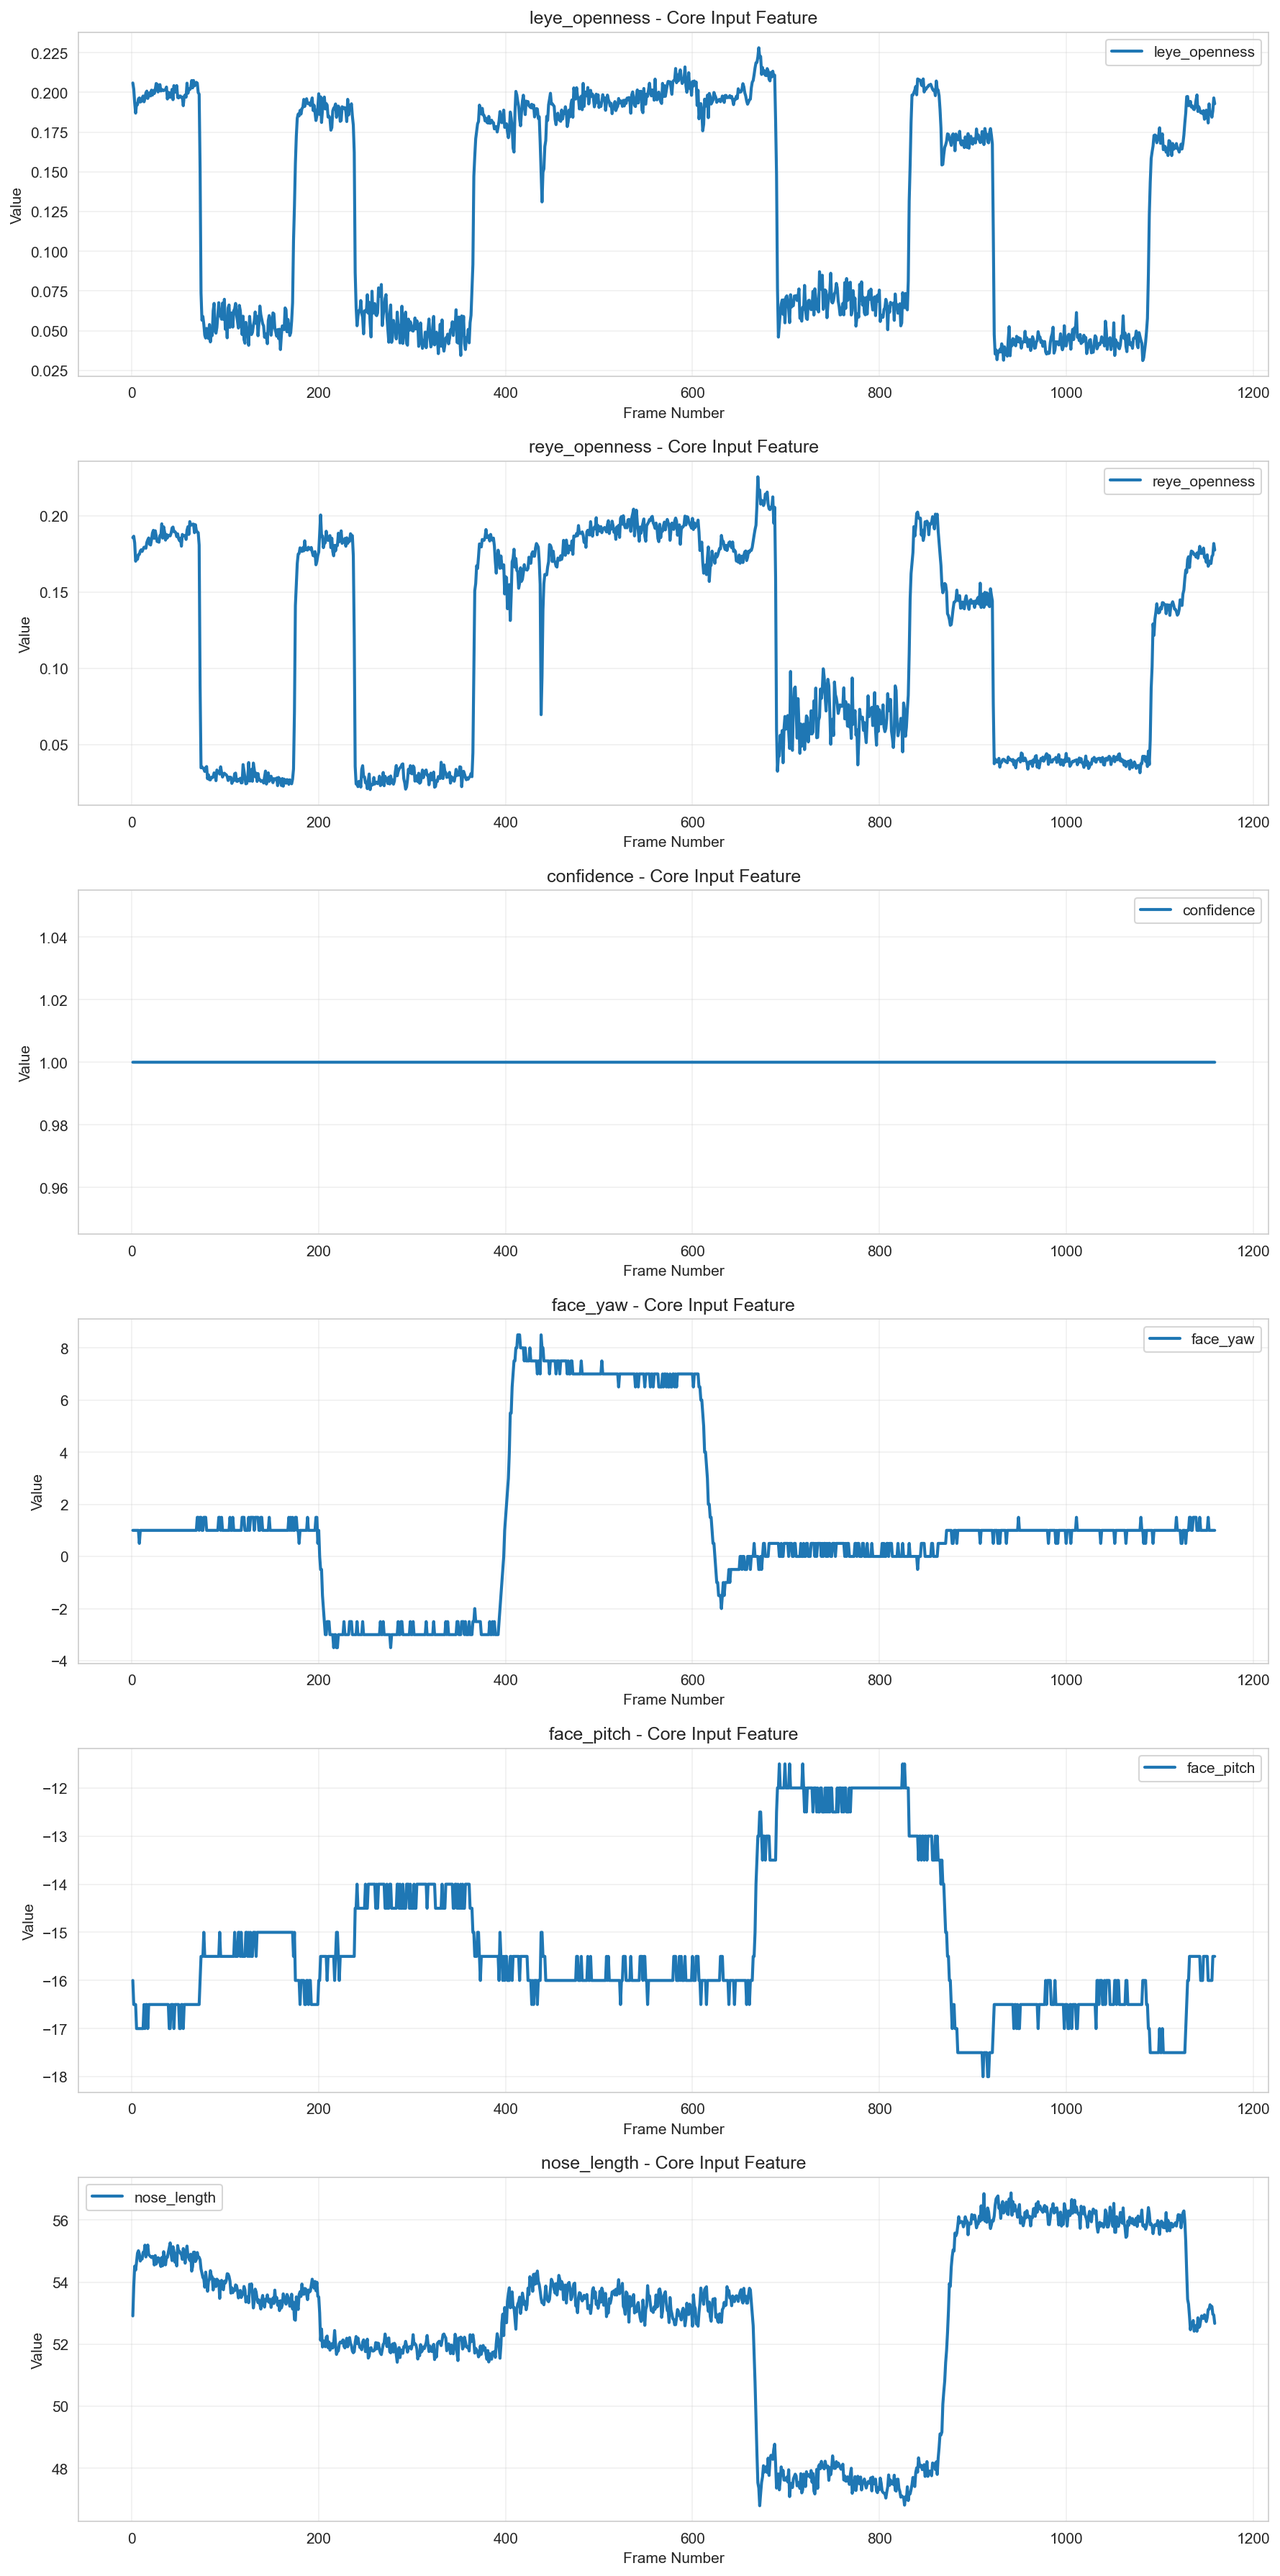
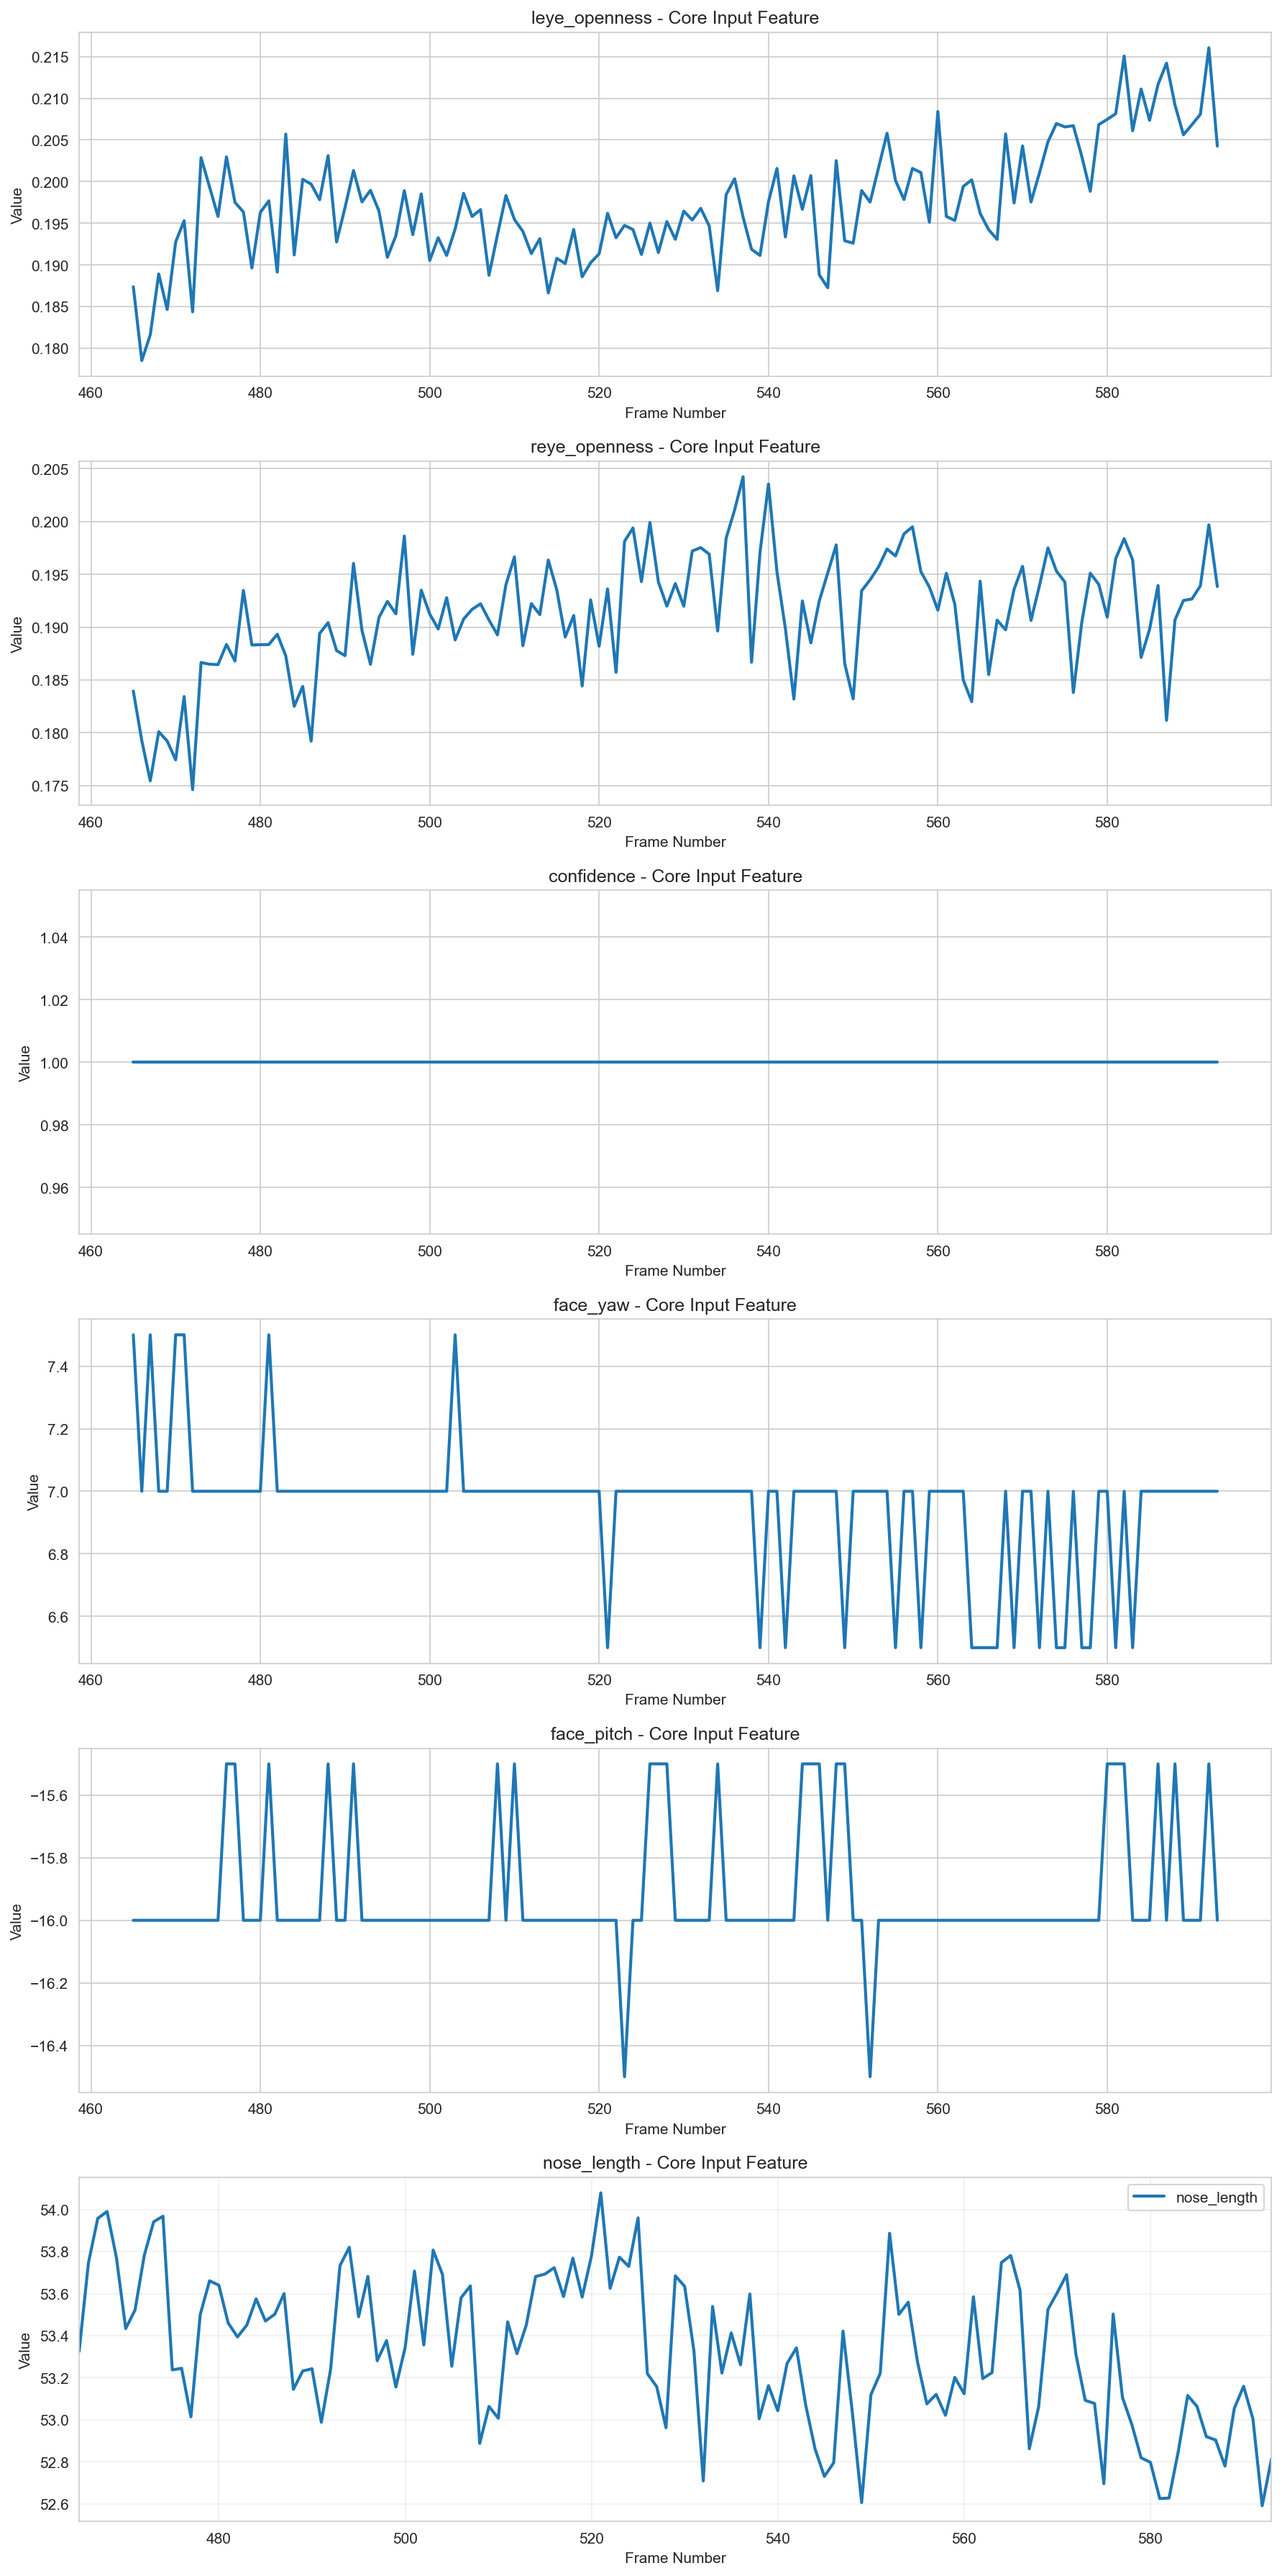
ログファイルにデータ分析の開始、エラー、生成されたレポートの詳細を追加。レポート内容を改善し、データ品質に関する推奨事項を更新。分析結果のJSONファイルの更新と、レポート生成機能の強化を実施。ターゲットフレーム範囲の抽出機能を追加し、可視化の精度を向上させるための設定を実装。

diff --git a/src/ai_analysis_engine/agents/reporter_agent.py b/src/ai_analysis_engine/agents/reporter_agent.py
@@ -434,14 +434,29 @@ class ReporterAgent:
 
             # Extract target interval from dataset if available
             target_interval_code = ""
+            start_frame = None
+            end_frame = None
+
+            # First, try to get from consistency_check
             if dataset and hasattr(dataset, 'consistency_check') and dataset.consistency_check:
                 cc = dataset.consistency_check
                 if isinstance(cc, dict) and 'target_interval' in cc and cc['target_interval']:
                     interval = cc['target_interval']
                     start_frame = interval.get('start')
                     end_frame = interval.get('end')
-                    if start_frame is not None and end_frame is not None:
-                        target_interval_code = f"""
+
+            # If not found in consistency_check, extract from expected_result directly
+            if start_frame is None and dataset and hasattr(dataset, 'expected_result'):
+                import re
+                expected = dataset.expected_result
+                # Extract frame range from expected result
+                frame_match = re.search(r'フレーム(?:区間)?\s*(\d+)\s*[-〜~]\s*(\d+)', expected)
+                if frame_match:
+                    start_frame = int(frame_match.group(1))
+                    end_frame = int(frame_match.group(2))
+
+            if start_frame is not None and end_frame is not None:
+                target_interval_code = f"""
 # Filter data to target interval
 if 'frame' in df.columns:
     df = df[(df['frame'] >= {start_frame}) & (df['frame'] <= {end_frame})]
@@ -462,6 +477,10 @@ df = pd.read_csv(r'{data_path}')
 
 # Filter to target interval if available
 {target_interval_code}
+
+# Define frame range variables for axis limits
+start_frame = {start_frame if start_frame is not None else 'None'}
+end_frame = {end_frame if end_frame is not None else 'None'}
 
 # Thresholds configuration
 {thresholds_code}
@@ -503,6 +522,18 @@ for i, col in enumerate(plot_columns):
     axes[i].set_title(f'{{col}} - Algorithm Output')
     axes[i].set_xlabel(x_label)
     axes[i].set_ylabel('Value')
+
+        # Set x-axis limits to the target interval if available
+    if start_frame != 'None' and end_frame != 'None':
+        if 'frame_num' in df.columns:
+            x_min = max(df['frame_num'].min(), int(start_frame))
+            x_max = min(df['frame_num'].max(), int(end_frame))
+            axes[i].set_xlim(x_min, x_max)
+        elif 'frame' in df.columns:
+            x_min = max(df['frame'].min(), int(start_frame))
+            x_max = min(df['frame'].max(), int(end_frame))
+            axes[i].set_xlim(x_min, x_max)
+
     axes[i].legend()
     axes[i].grid(True, alpha=0.3)
 
@@ -542,14 +573,29 @@ plt.close()
 
             # Extract target interval from dataset if available
             target_interval_code = ""
+            start_frame = None
+            end_frame = None
+
+            # First, try to get from consistency_check
             if dataset and hasattr(dataset, 'consistency_check') and dataset.consistency_check:
                 cc = dataset.consistency_check
                 if isinstance(cc, dict) and 'target_interval' in cc and cc['target_interval']:
                     interval = cc['target_interval']
                     start_frame = interval.get('start')
                     end_frame = interval.get('end')
-                    if start_frame is not None and end_frame is not None:
-                        target_interval_code = f"""
+
+            # If not found in consistency_check, extract from expected_result directly
+            if start_frame is None and dataset and hasattr(dataset, 'expected_result'):
+                import re
+                expected = dataset.expected_result
+                # Extract frame range from expected result
+                frame_match = re.search(r'フレーム(?:区間)?\s*(\d+)\s*[-〜~]\s*(\d+)', expected)
+                if frame_match:
+                    start_frame = int(frame_match.group(1))
+                    end_frame = int(frame_match.group(2))
+
+            if start_frame is not None and end_frame is not None:
+                target_interval_code = f"""
 # Filter data to target interval
 if 'frame' in df.columns:
     df = df[(df['frame'] >= {start_frame}) & (df['frame'] <= {end_frame})]
@@ -570,6 +616,10 @@ df = pd.read_csv(r'{data_path}')
 
 # Filter to target interval if available
 {target_interval_code}
+
+# Define frame range variables for axis limits
+start_frame = {start_frame if start_frame is not None else 'None'}
+end_frame = {end_frame if end_frame is not None else 'None'}
 
 # Input columns and thresholds configuration
 input_cols = {input_cols_str}
@@ -659,6 +709,18 @@ else:
         axes[i].set_title(f'{{col}} - Core Input Feature')
         axes[i].set_xlabel(x_label)
         axes[i].set_ylabel('Value')
+
+        # Set x-axis limits to the target interval if available
+    if start_frame != 'None' and end_frame != 'None':
+        if 'frame_num' in df.columns:
+            x_min = max(df['frame_num'].min(), int(start_frame))
+            x_max = min(df['frame_num'].max(), int(end_frame))
+            axes[i].set_xlim(x_min, x_max)
+        elif 'frame' in df.columns:
+            x_min = max(df['frame'].min(), int(start_frame))
+            x_max = min(df['frame'].max(), int(end_frame))
+            axes[i].set_xlim(x_min, x_max)
+
         axes[i].legend()
         axes[i].grid(True, alpha=0.3)
 

diff --git a/output/results/reports/test_dataset_002_report.md b/output/results/reports/test_dataset_002_report.md
@@ -2,11 +2,11 @@
 
 ## 概要
 
-- 結論: データ品質問題により、期待される「連続閉眼あり」の検知が不十分である可能性があります。
+- 結論: データ品質問題により、連続閉眼の検知が不十分である可能性があります。特に、欠損値が存在するため、信頼性が低下しています。
 - 解析対象動画: test_dataset_002
 - フレーム区間: 465-593
 - 期待値: フレーム区間465-593の間に「連続閉眼あり」が存在すること
-- 検知結果: アルゴリズム出力では連続閉眼状態が検知されず、非連続閉眼状態が多く報告されました。
+- 検知結果: 連続閉眼状態の検知が不完全であり、期待値に対する出力が一致しない結果が得られました。
 
 ## 確認結果
 
@@ -16,21 +16,23 @@
 ![コア出力結果のグラフ](./plots/test_dataset_002/core_output_plot.png)
 コア出力結果
 
-- 入出力の確認結果: アルゴリズム出力データは1159行で、期待される連続閉眼状態が検知されていないことが確認されました。コア出力データには1159行があり、信頼度が0.70のデータが存在しましたが、欠損値が含まれているため、正確な判定が行えませんでした。
-
+- 入出力の確認結果: アルゴリズム出力では、連続閉眼状態が検知されていないフレームがあり、期待値との不一致が見られました。具体的には、アルゴリズム出力の中で連続閉眼状態が確認されたフレームは期待値に対して不足していました。
+  
 - 考えられる原因:
-  - データ品質問題: アルゴリズム出力に欠損値が存在し、信頼度が低いため、正確な検知が行われていない。
-  - 顔検出信頼度が閾値を下回るフレームが多く、検知結果に影響を与えている可能性がある。
+  - データ品質問題: アルゴリズム出力データに欠損値が存在し、信頼度が0.70であるため、検知結果に影響を与えています。
+  - 顔検出信頼度が閾値を下回るフレームが存在し、これによりスキップされた可能性があります。
+  - 入力特徴量の分布が期待値と異なる場合、アルゴリズムの性能が低下することがあります。
 
 ## 推奨事項
 
-- 欠損値処理の実装またはデータ収集の見直しを行い、データ品質を向上させる。
-- 顔検出信頼度の閾値を見直し、より多くのフレームでの検知を可能にするための調整を検討する。
+- 欠損値処理の実装またはデータ収集の見直しを行い、データ品質を向上させることを推奨します。
+- 顔検出信頼度の閾値を見直し、より多くのフレームを検知対象とすることで、連続閉眼状態の検知精度を向上させることができます。
+- 入力特徴量の分布を再評価し、必要に応じてアルゴリズムのパラメータを調整することを検討してください。
 
 ## 参照した仕様/コード（抜粋）
 
 - アルゴリズム仕様書: 連続閉眼検知アルゴリズム仕様書 (AS_drowsy_detection)
-- 評価エンジン仕様書: drowsy_detection 評価エンジン 仕様書（更新版）
+- 評価環境仕様書: drowsy_detection 評価エンジン 仕様書（更新版）
 - 使用したライブラリ: `drowsy_detection.core.drowsy_detector.DrowsyDetector`
 
 ## アルゴリズム設定情報
